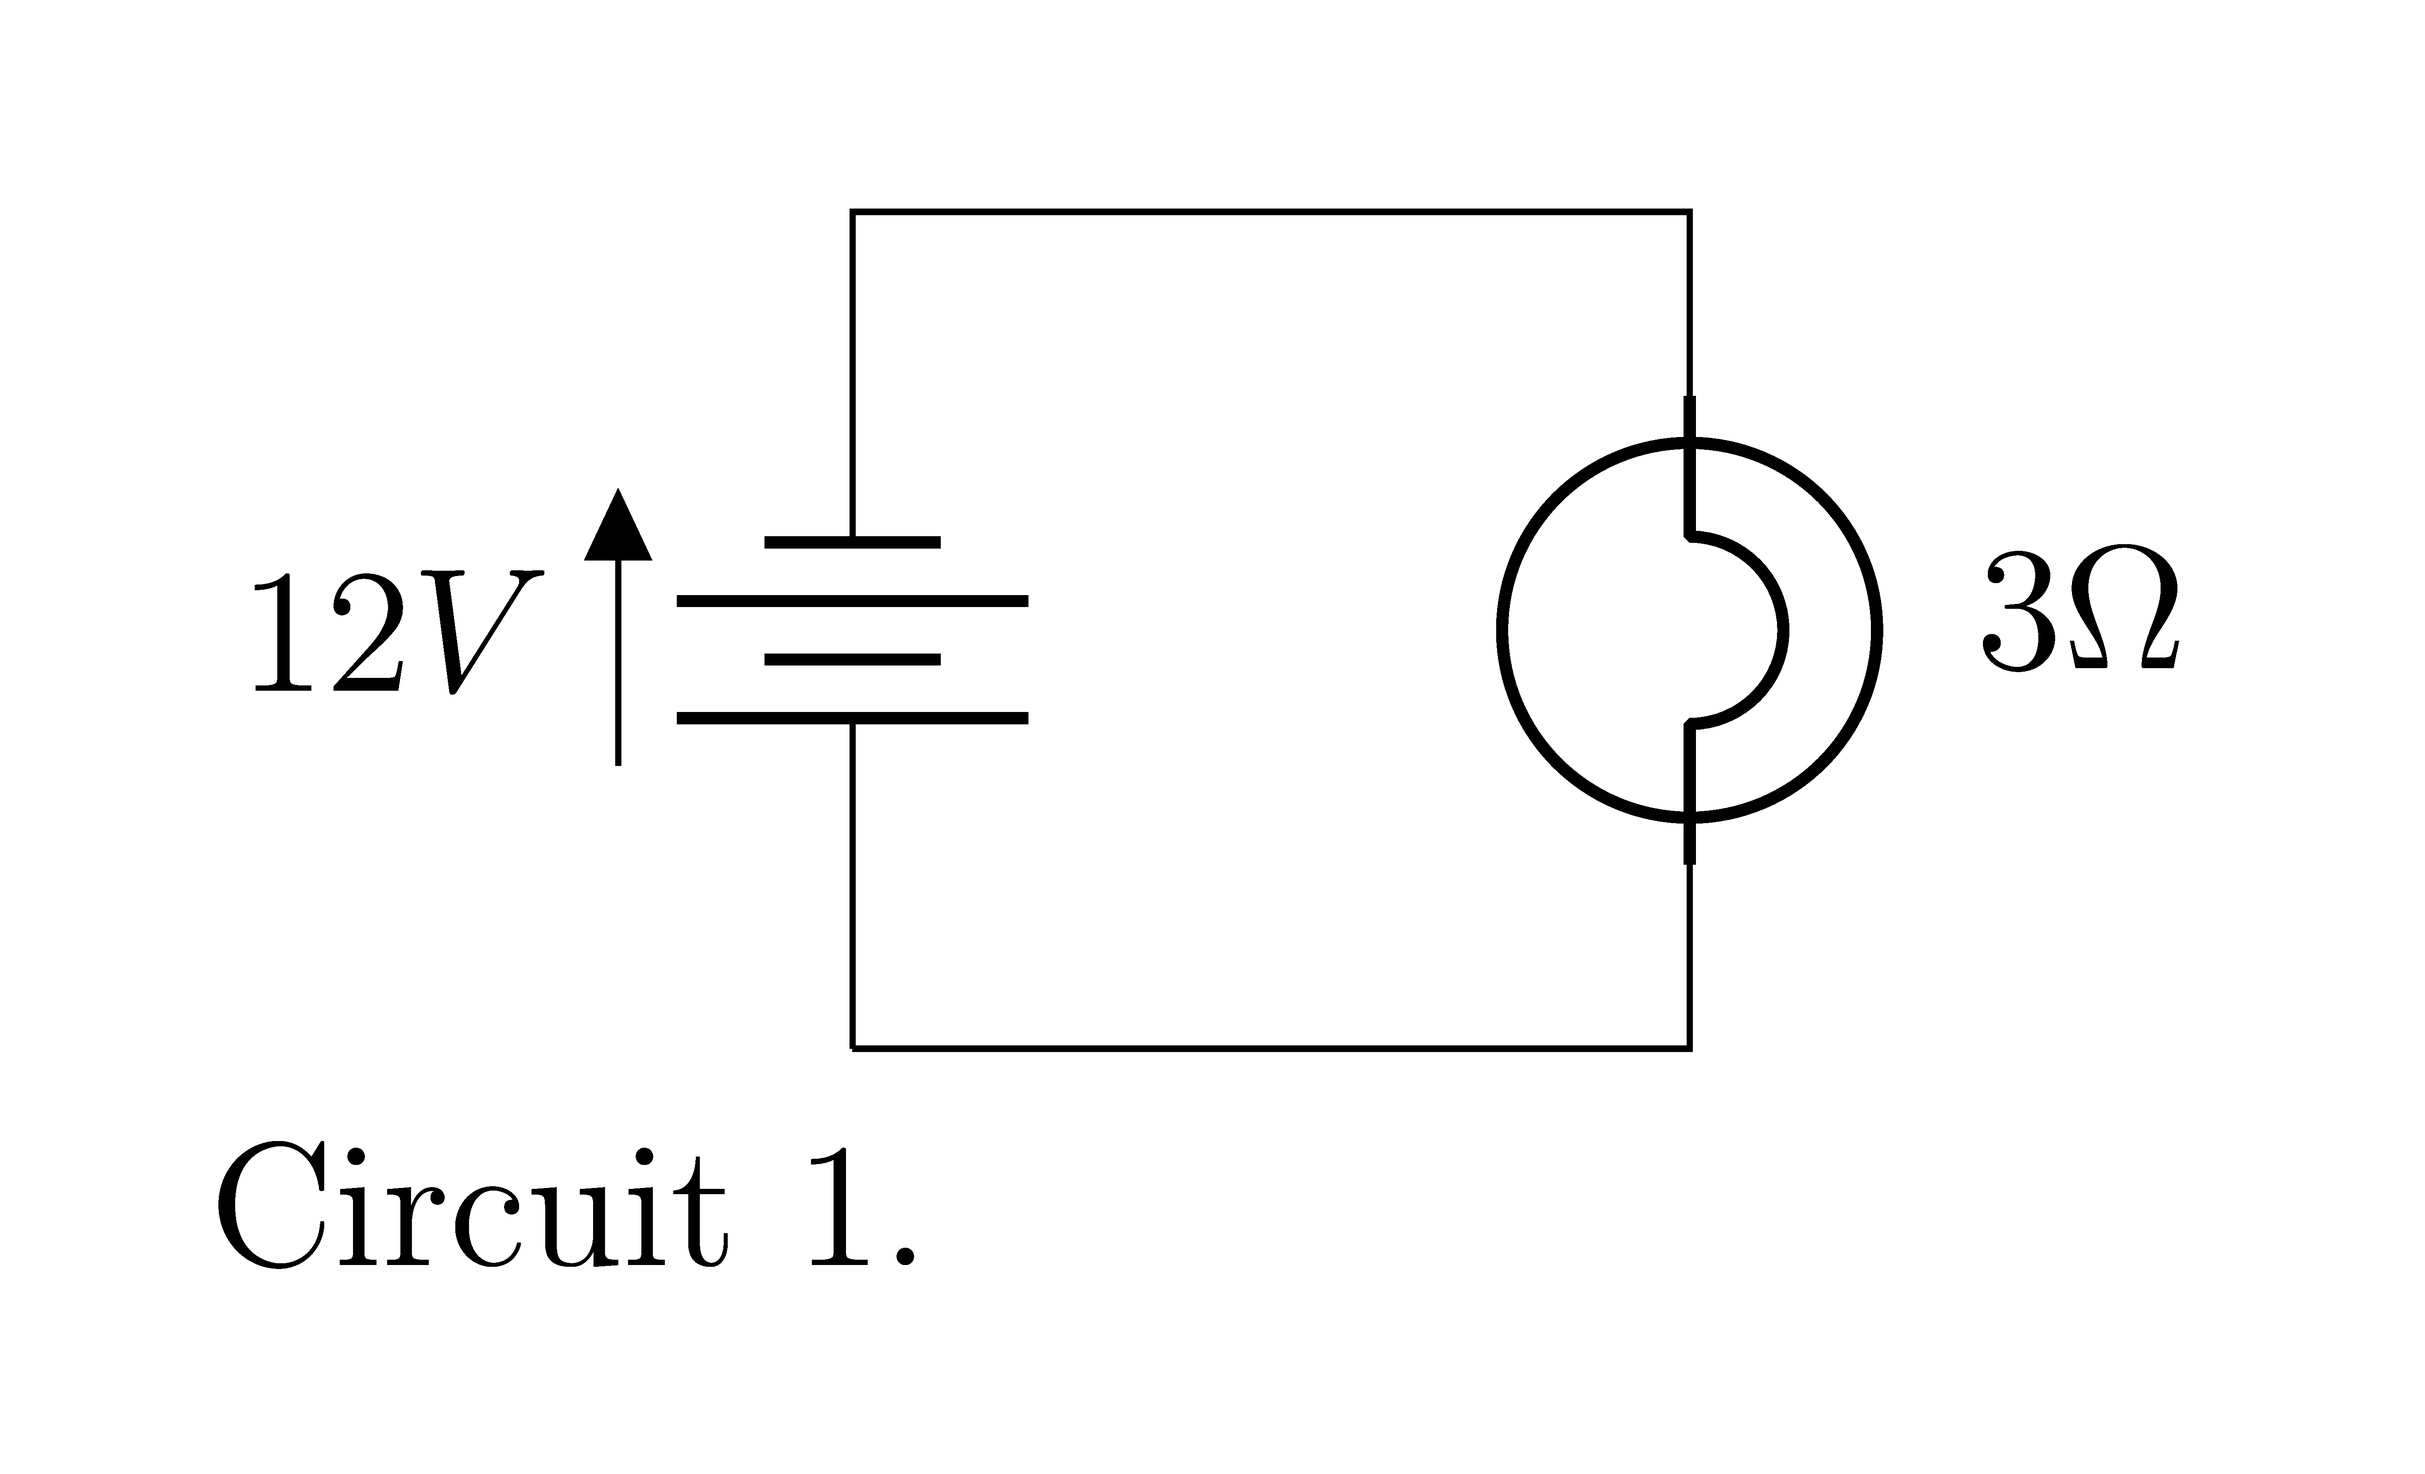
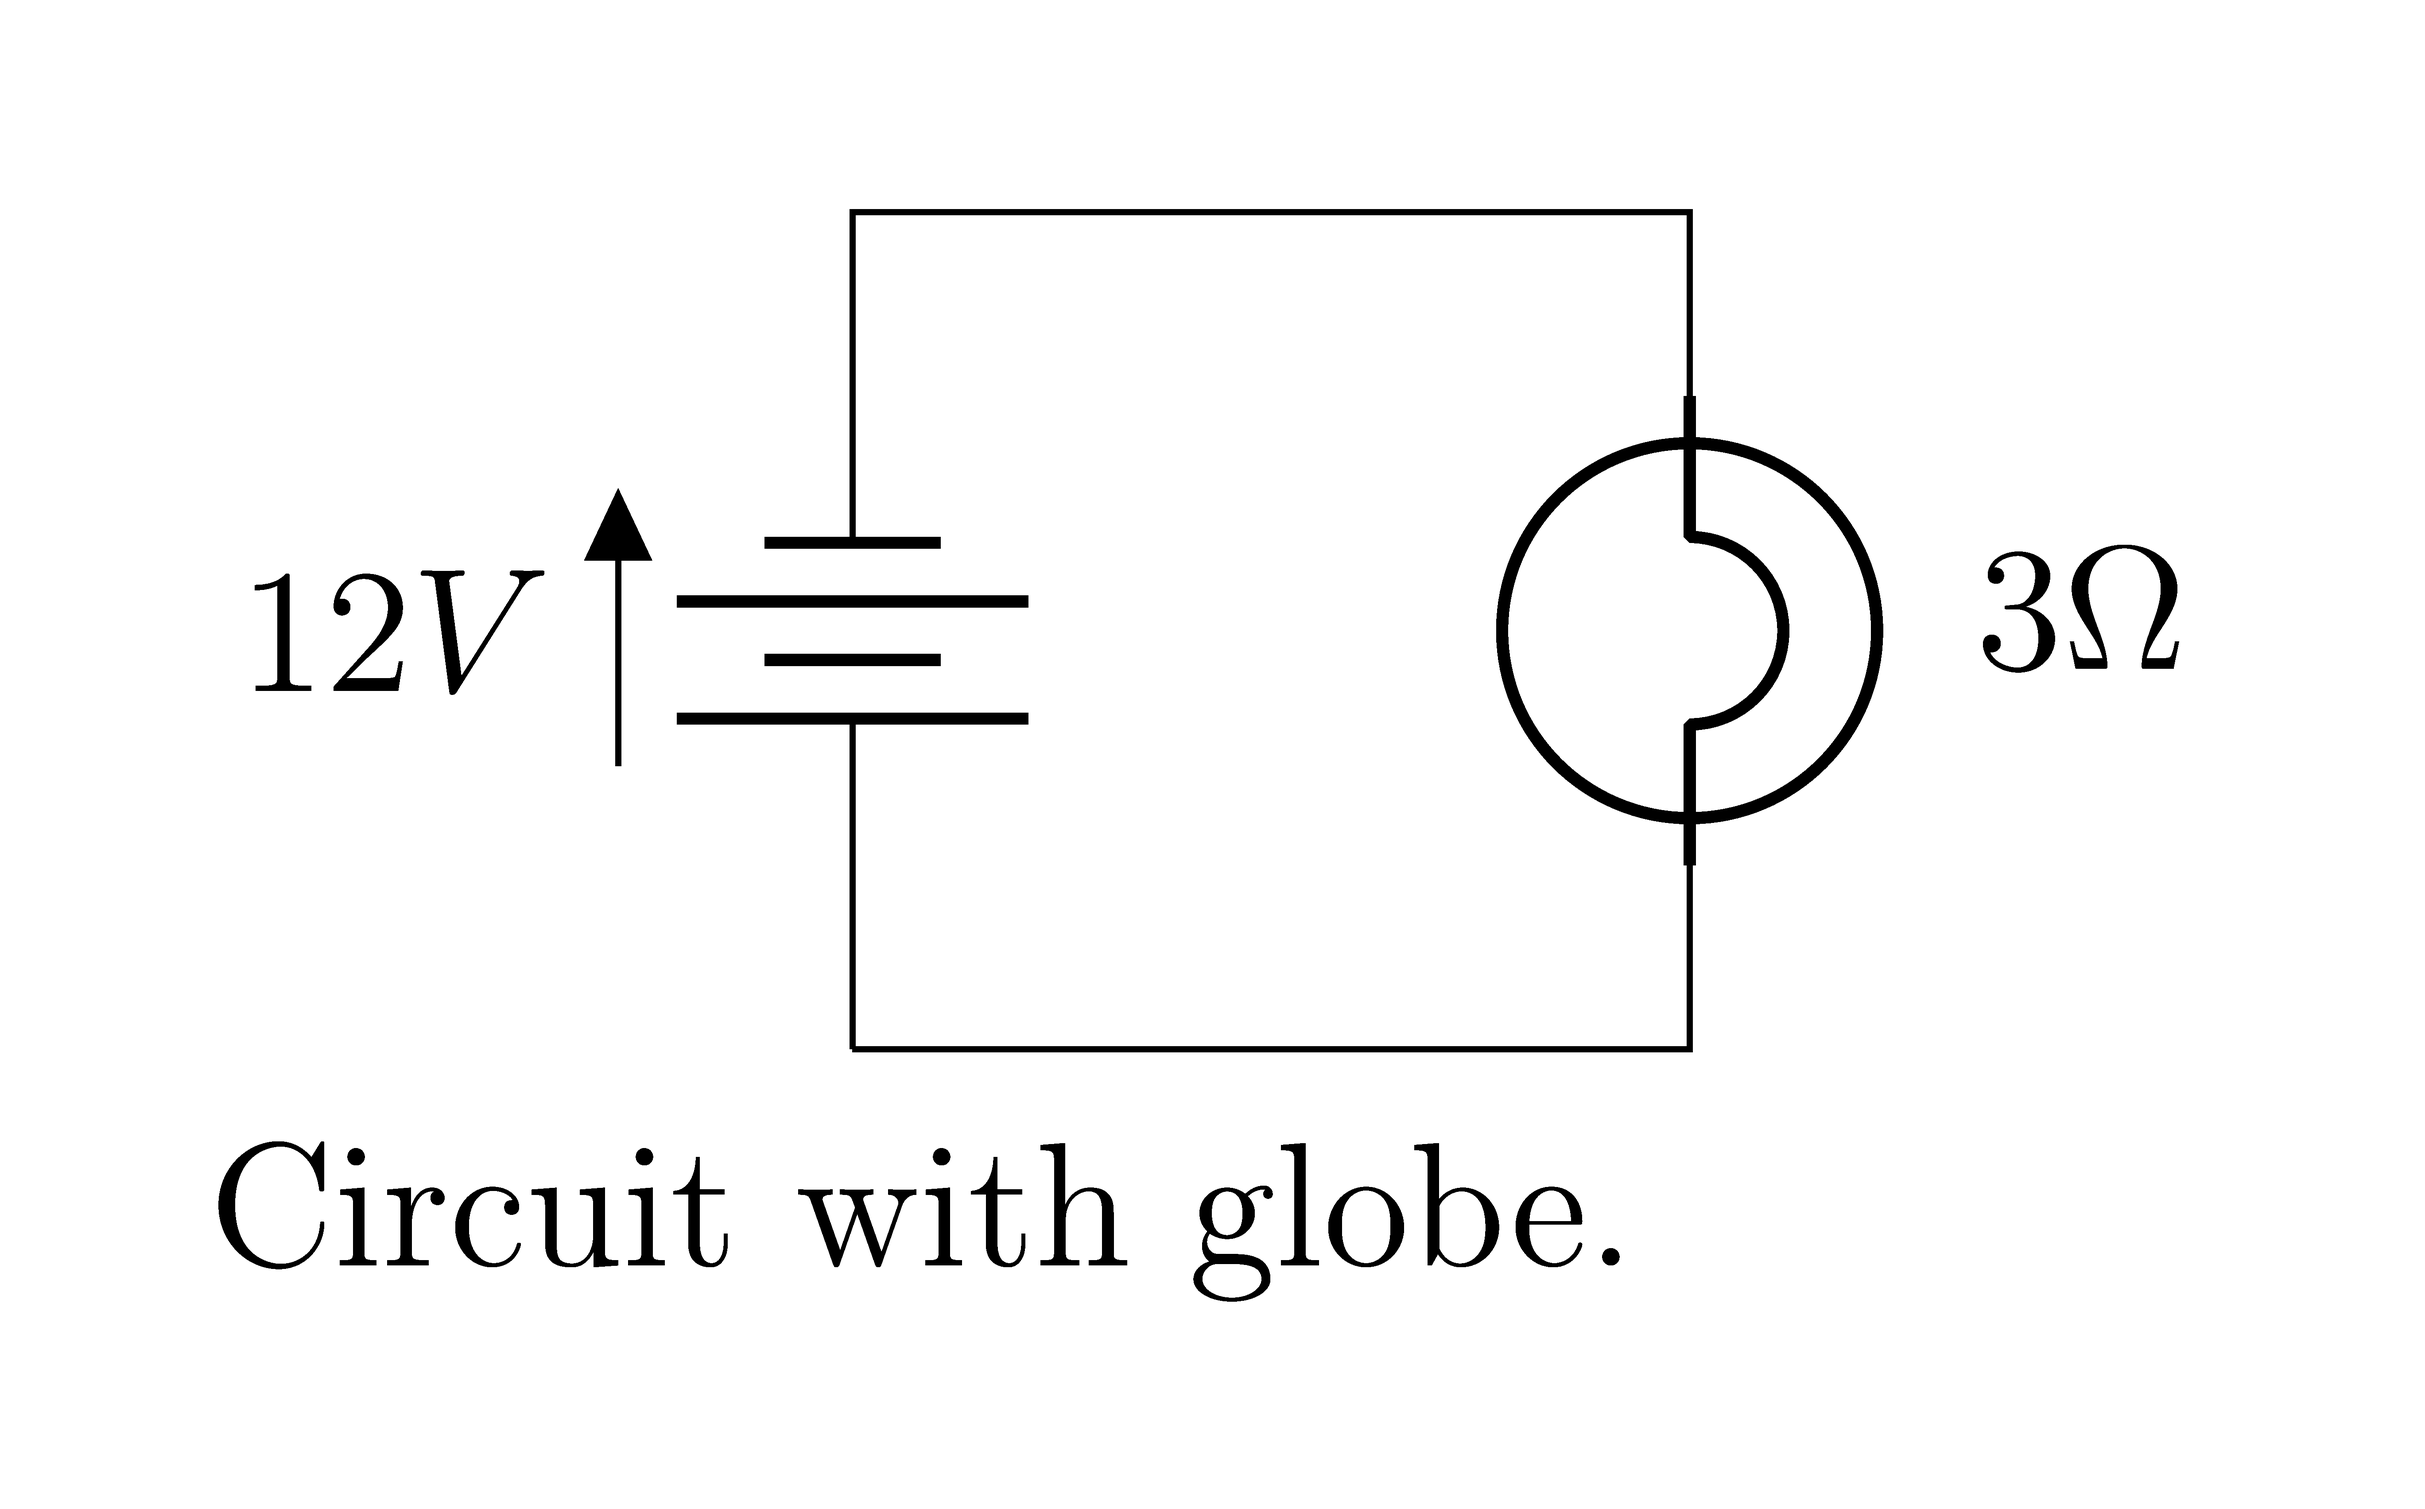
classification

diff --git a/docs/latex_science/biology/files/vertebrates_key.tex b/docs/latex_science/biology/files/vertebrates_key.tex
@@ -1,0 +1,14 @@
+\documentclass[12pt, varwidth, border=5mm]{standalone}
+\usepackage{amsmath}
+\begin{document}
+\begin{tabular}{lr}
+1A. & Feathers present \dots \dotfill birds \\
+1B. & Feathers absent \dots \dotfill go to 2 \\
+2A. & Scales present \dots \dotfill go to 3 \\
+2B. & No scales present \dots \dotfill go to 4 \\
+3A. & Breathe with gills \dots \dotfill fish \\
+3B. & Breathe with lungs \dots \dotfill reptiles \\
+4A. & Hair or fur present \dots \dotfill mammals \\
+4B. & Hair or fur absent \dots \dotfill amphibians \\
+\end{tabular}
+\end{document}

diff --git a/docs/latex_science/physics/files/circuit.tex b/docs/latex_science/physics/files/circuit.tex
@@ -8,5 +8,5 @@ to[short] (2,2)
 to[bulb, l=$3\Omega$] (2,0) % The bulb
 to[short] (0,0);
 \end{circuitikz}\\
-Circuit 1.
+Circuit with globe.
 \end{document}

diff --git a/docs/latex_science/biology/classification_keys.rst b/docs/latex_science/biology/classification_keys.rst
@@ -1,0 +1,16 @@
+====================================================
+Classification keys
+====================================================
+
+| Dichotomous tabulare classification keys can be created in LaTeX.
+
+.. figure:: files/vertebrates_key.png
+   :width: 600
+   :alt: vertebrates_key.png
+   :figclass: align-center
+
+
+.. literalinclude:: files/vertebrates_key.tex
+   :linenos:
+
+

diff --git a/docs/index.rst b/docs/index.rst
@@ -125,3 +125,14 @@ PC-latex
     :numbered:
 
     latex_science/physics/circuits.rst
+
+
+.. toctree::
+    :maxdepth: 2
+    :caption: 🦘 biology
+    :numbered:
+
+    latex_science/biology/classification_keys.rst
+
+
+    
